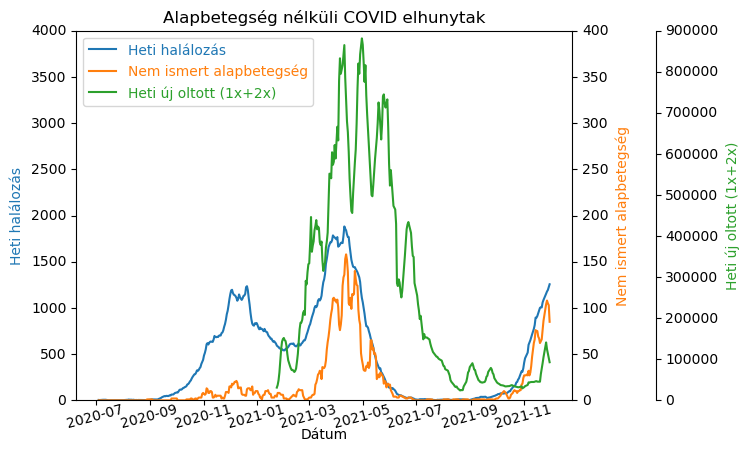
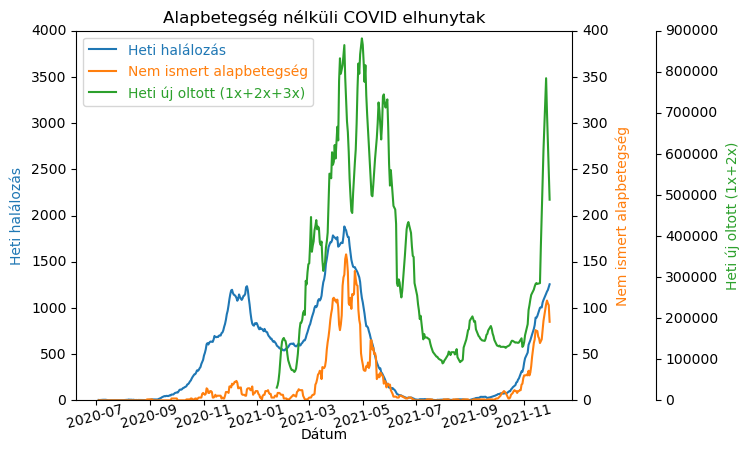
Frissítés

Changed region(s): [[0.5834, 0.6829, 0.737, 0.8692], [0.7063, 0.1863, 0.737, 0.6829], [0.3685, 0.1863, 0.3992, 0.2173]]

diff --git a/kép_alapbetegség_nélküli_elhunytak.py b/kép_alapbetegség_nélküli_elhunytak.py
@@ -19,7 +19,7 @@ dfcv = pd.read_csv(BASEDIR +"/adatok/hiradatok.csv", parse_dates=['Dátum'])
 dfcv = dfcv[dfcv['Dátum'] >= "2020-07-01"].reset_index()
 dfcvroll = dfcv.rolling(7, center=True, min_periods=7).sum()
 dfcv['Heti halálozás'] = dfcvroll['Napi új elhunyt']
-dfcv['Heti új oltott'] = dfcvroll['Napi új beoltott'] + dfcvroll['Napi új másodszor oltott']
+dfcv['Heti új oltott'] = dfcvroll['Napi új beoltott'] + dfcvroll['Napi új másodszor oltott'] + dfcvroll['Napi új harmadszor oltott']
 
 df = pd.read_csv(BASEDIR +"/adatok/elhunytak_datummal.csv", parse_dates=['Dátum'])
 df = df[np.vectorize(isHealthy)(df['Alapbetegségek'])].reset_index()
@@ -64,7 +64,7 @@ par2.axis[:].major_ticks.set_tick_out(True)
 
 p1, = host.plot(df['Dátum'], df['Heti halálozás'], label="Heti halálozás")
 p2, = par1.plot(df['Dátum'], df['Nem ismert alapbetegség'], label="Nem ismert alapbetegség")
-p3, = par2.plot(df['Dátum'], df['Heti új oltott'], label="Heti új oltott (1x+2x)")
+p3, = par2.plot(df['Dátum'], df['Heti új oltott'], label="Heti új oltott (1x+2x+3x)")
 
 leg = plt.legend(loc='upper left')
 
